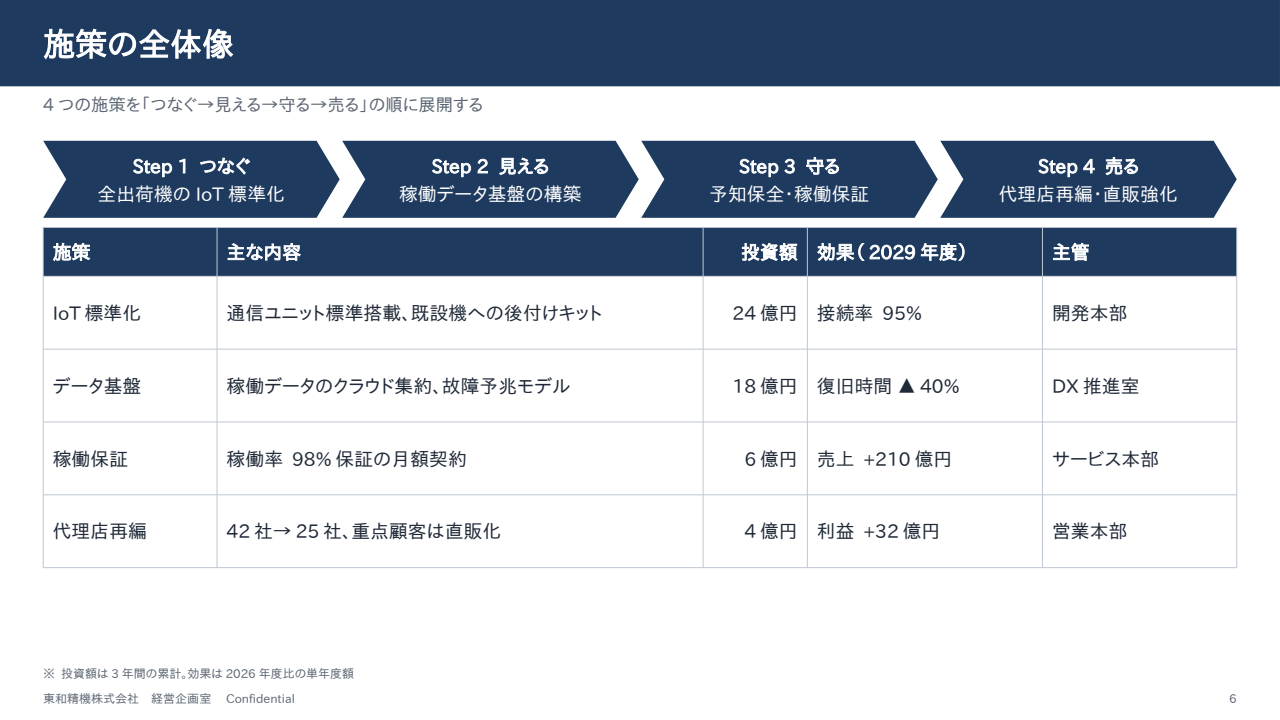
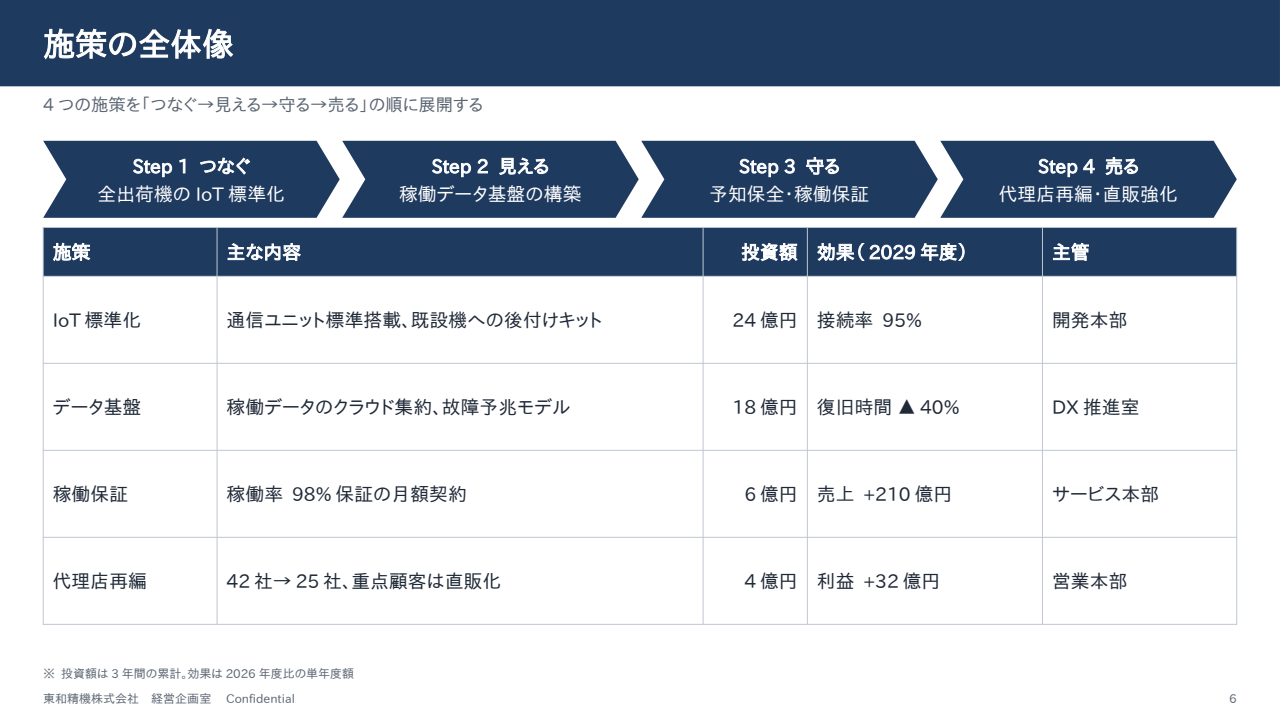
Gallery after wave 2; wave 3 packages
Claude-Session: https://claude.ai/code/session_012bJdYHZe1RzpPkJoMDLmbZ

diff --git a/docs/PLAN.md b/docs/PLAN.md
@@ -443,3 +443,13 @@ Goal: L3 consulting-grade per the run-6 designer review; AC4 gate text unchanged
 - **Wave 2 B2 (`layout/tables.py`, `layout/vfill.py`, `render/objects.py`):** stretched tables grow their text with
   the row height (16 s9 rows ≈ 3 lines tall at 13pt; 11 s4 / 16 s6 chevron + table leave a 100px band), capped by
   `layout.table_text_max`; badges in table cells keep side padding.
+- **Wave 2 status:** hollow stretched cards spread their items (gap cap tuned 5.5 → 2.2 em by the orchestrator: wide gaps
+  read as broken lists); stretched tables grow text (16 s9 14.2 → 16.8pt) and reach the footnote; padded badges;
+  examples/19 (VI, custom brand) added as a stress deck. 1620 tests; round trip 116/119 (16 s3, 58-html pre-existing; 19 s4 new).
+- **Wave 3 B1 (`layout/l3fill.py`, `layout/engine.py`, `layout/measure.py`):** lone chevron rows (19 s2: 60% of the body
+  empty) grow taller (capped share of the body) with text, and the row sits in the body's optical center; thin chevrons
+  above a table (11 s4) grow their text so the table text cap rises too; no line break after an en dash between digits
+  (`2027–2029` on 19 s1 cover).
+- **Wave 3 B2 (`layout/diagram.py`, `layout/tables.py`, `render/text.py`, `importer/`):** `@.a./bcd` area-grid org charts
+  fill the body like `@a>b` trees (19 s3) and a lone root box widens until its heading fits on one line; a badge never
+  wraps alone onto its own line in a table cell; importer keeps centered merged header cells (19 s4 round trip).

diff --git a/README.md b/README.md
@@ -53,7 +53,7 @@ Windows: `slidemark preview` / `review --png` tự tìm LibreOffice trong `C:\Pr
 ## Ảnh slide mẫu (cập nhật hằng ngày)
 
 <!-- gallery:start -->
-Cập nhật: 2026-10-06 · commit `37ff9c2` · tạo tự động bởi `scripts/gallery.py`.
+Cập nhật: 2026-10-06 · commit `cfb6995` · tạo tự động bởi `scripts/gallery.py`.
 
 ### Cơ bản: tiêu đề, danh sách, box, bảng, biểu đồ
 
@@ -210,6 +210,16 @@ Nguồn: [`examples/18-brand-lime.md`](examples/18-brand-lime.md)
 ![18-brand-lime slide 2](docs/gallery/18-brand-lime/slide-02.png)
 ![18-brand-lime slide 3](docs/gallery/18-brand-lime/slide-03.png)
 ![18-brand-lime slide 4](docs/gallery/18-brand-lime/slide-04.png)
+
+### 19-vi-consulting-brand
+
+Nguồn: [`examples/19-vi-consulting-brand.md`](examples/19-vi-consulting-brand.md)
+
+![19-vi-consulting-brand slide 1](docs/gallery/19-vi-consulting-brand/slide-01.png)
+![19-vi-consulting-brand slide 2](docs/gallery/19-vi-consulting-brand/slide-02.png)
+![19-vi-consulting-brand slide 3](docs/gallery/19-vi-consulting-brand/slide-03.png)
+![19-vi-consulting-brand slide 4](docs/gallery/19-vi-consulting-brand/slide-04.png)
+![19-vi-consulting-brand slide 5](docs/gallery/19-vi-consulting-brand/slide-05.png)
 <!-- gallery:end -->
 
 ## Tài liệu
